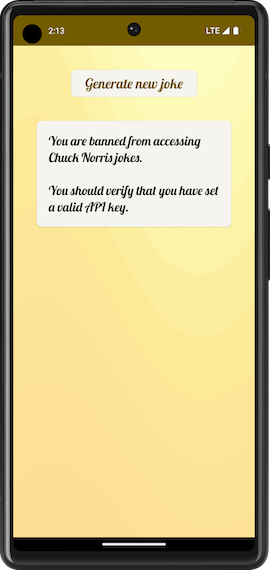
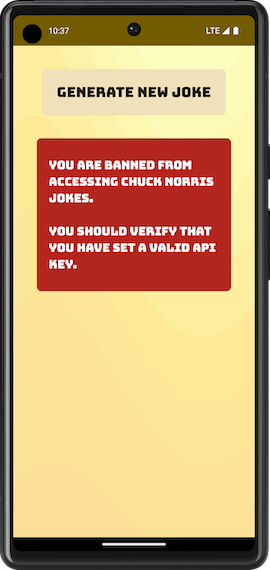
Distinguish error and success state

Changed region(s): [[0.1185, 0.1193, 0.8593, 0.5368], [0.1778, 0.0298, 0.2667, 0.0596]]

diff --git a/app/src/main/java/rs/smobile/chucknorrisjokes/ui/JokesScreenComposable.kt b/app/src/main/java/rs/smobile/chucknorrisjokes/ui/JokesScreenComposable.kt
@@ -31,7 +31,6 @@ fun JokesScreenComposable(
     fetchNewJoke: () -> Unit
 ) {
     ChuckNorrisJokesTheme {
-        // A surface container using the 'background' color from the theme
         Surface(
             modifier = Modifier.fillMaxSize(),
             color = MaterialTheme.colorScheme.background
@@ -61,13 +60,12 @@ private fun JokeGeneratorSection(
     ) {
         GenerateJokeButton(onGenerateJokeButtonClick)
         when (uiState) {
-            is JokeUiState.Failure -> JokeCard(text = uiState.message)
             JokeUiState.Loading -> LinearProgressIndicator(
                 modifier = Modifier
                     .padding(top = 20.dp)
                     .testTag(PROGRESS_INDICATOR_TEST_TAG)
             )
-            is JokeUiState.Success -> JokeCard(text = uiState.joke?.value)
+            else -> JokeCard(uiState)
         }
     }
 }
@@ -79,7 +77,8 @@ private fun GenerateJokeButton(
     ElevatedButton(
         onClick = onClick,
         modifier = Modifier.padding(vertical = 40.dp),
-        shape = RoundedCornerShape(8.dp)
+        shape = RoundedCornerShape(8.dp),
+        colors = ButtonDefaults.filledTonalButtonColors()
     ) {
         Text(
             text = stringResource(R.string.generate_new_joke),
@@ -90,21 +89,30 @@ private fun GenerateJokeButton(
 
 @Composable
 private fun JokeCard(
-    text: String?
+    uiState: JokeUiState
 ) {
     ElevatedCard(
         modifier = Modifier
             .padding(horizontal = 40.dp)
             .fillMaxWidth()
             .testTag(JOKE_CARD_TEST_TAG),
-        shape = RoundedCornerShape(8.dp)
+        shape = RoundedCornerShape(8.dp),
+        colors = CardDefaults.cardColors(
+            containerColor = if (uiState is JokeUiState.Success) MaterialTheme.colorScheme.primary
+            else MaterialTheme.colorScheme.error,
+            contentColor = MaterialTheme.colorScheme.onPrimary
+        )
     ) {
         Text(
-            text = text ?: "",
+            text = when (uiState) {
+                is JokeUiState.Success -> uiState.joke?.value.orEmpty()
+                is JokeUiState.Failure -> uiState.message.orEmpty()
+                else -> ""
+            },
             modifier = Modifier
                 .padding(horizontal = 20.dp, vertical = 20.dp)
                 .fillMaxWidth(),
-            style = MaterialTheme.typography.titleLarge
+            style = MaterialTheme.typography.titleMedium
         )
     }
 }

diff --git a/app/src/main/java/rs/smobile/chucknorrisjokes/ui/theme/Type.kt b/app/src/main/java/rs/smobile/chucknorrisjokes/ui/theme/Type.kt
@@ -15,7 +15,7 @@ private val provider = GoogleFont.Provider(
     certificates = R.array.com_google_android_gms_fonts_certs
 )
 
-private val fontName = GoogleFont("Lobster")
+private val fontName = GoogleFont("Bungee")
 
 private val fontFamily = FontFamily(
     Font(googleFont = fontName, fontProvider = provider)
@@ -33,6 +33,13 @@ val Typography = Typography(
         fontFamily = fontFamily,
         fontWeight = FontWeight.Normal,
         fontSize = 22.sp,
+        lineHeight = 28.0.sp,
+        letterSpacing = 0.0.sp
+    ),
+    titleMedium = TextStyle(
+        fontFamily = fontFamily,
+        fontWeight = FontWeight.Normal,
+        fontSize = 20.sp,
         lineHeight = 28.0.sp,
         letterSpacing = 0.0.sp
     ),
